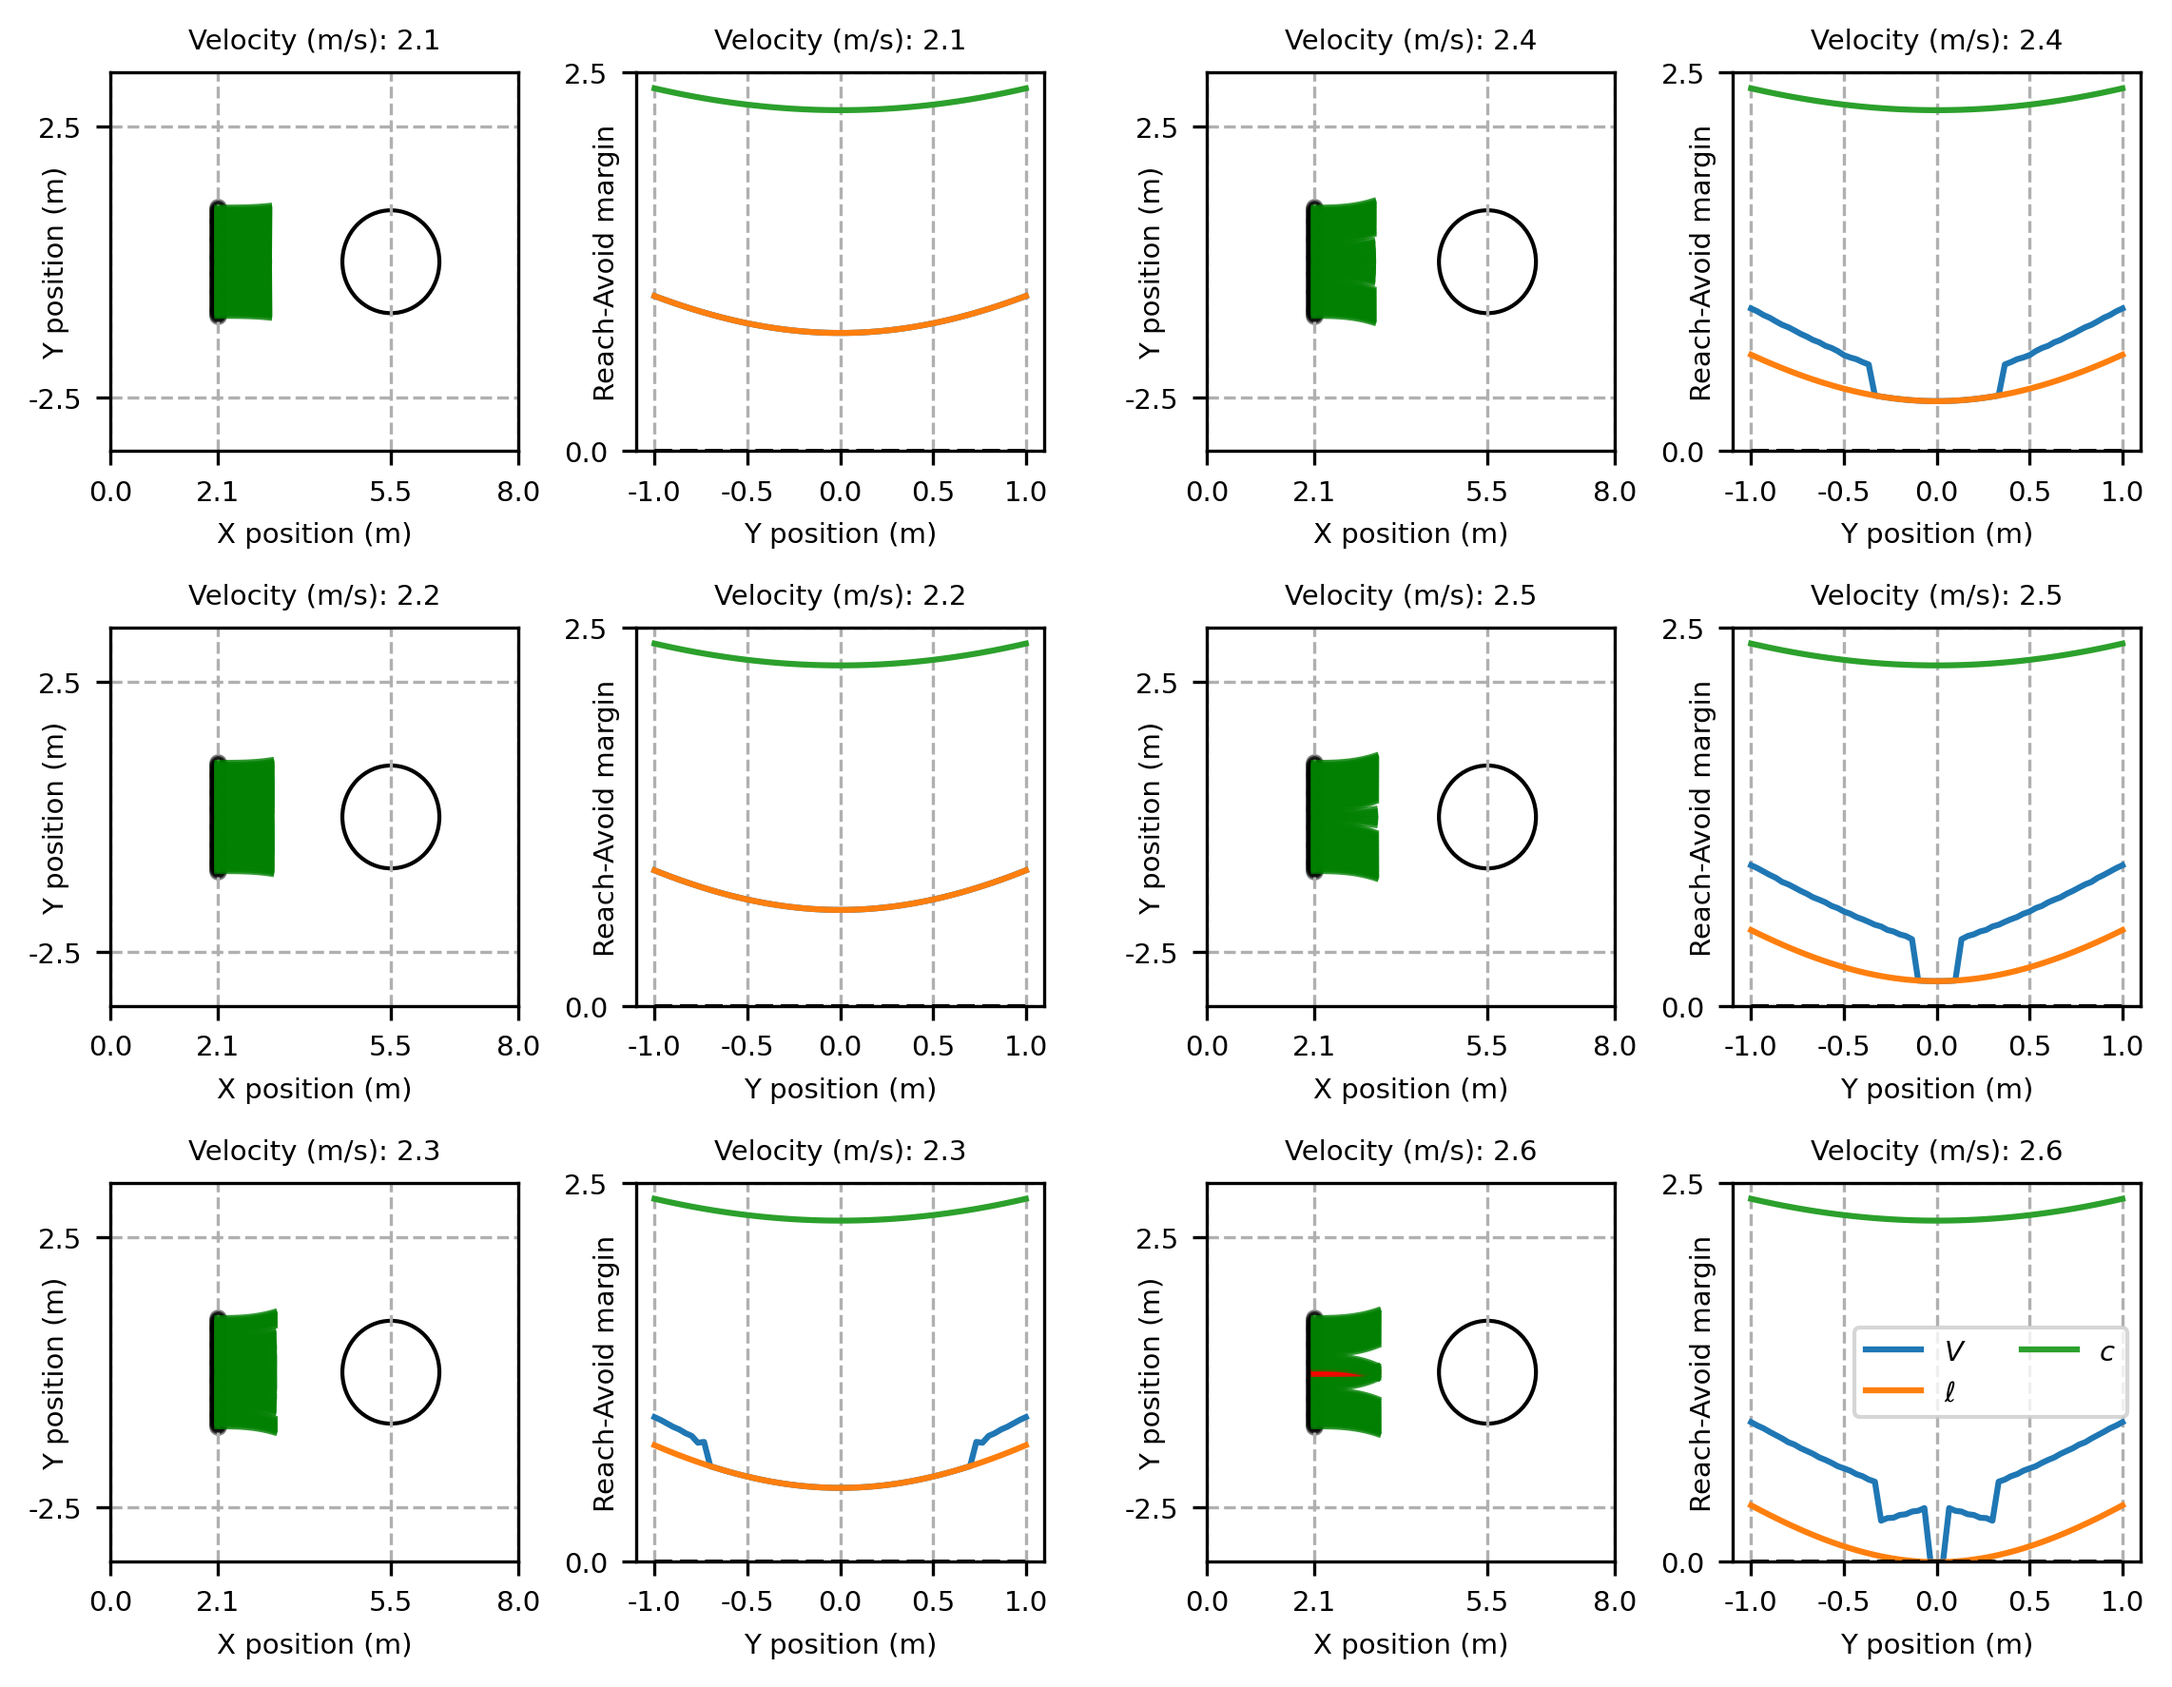
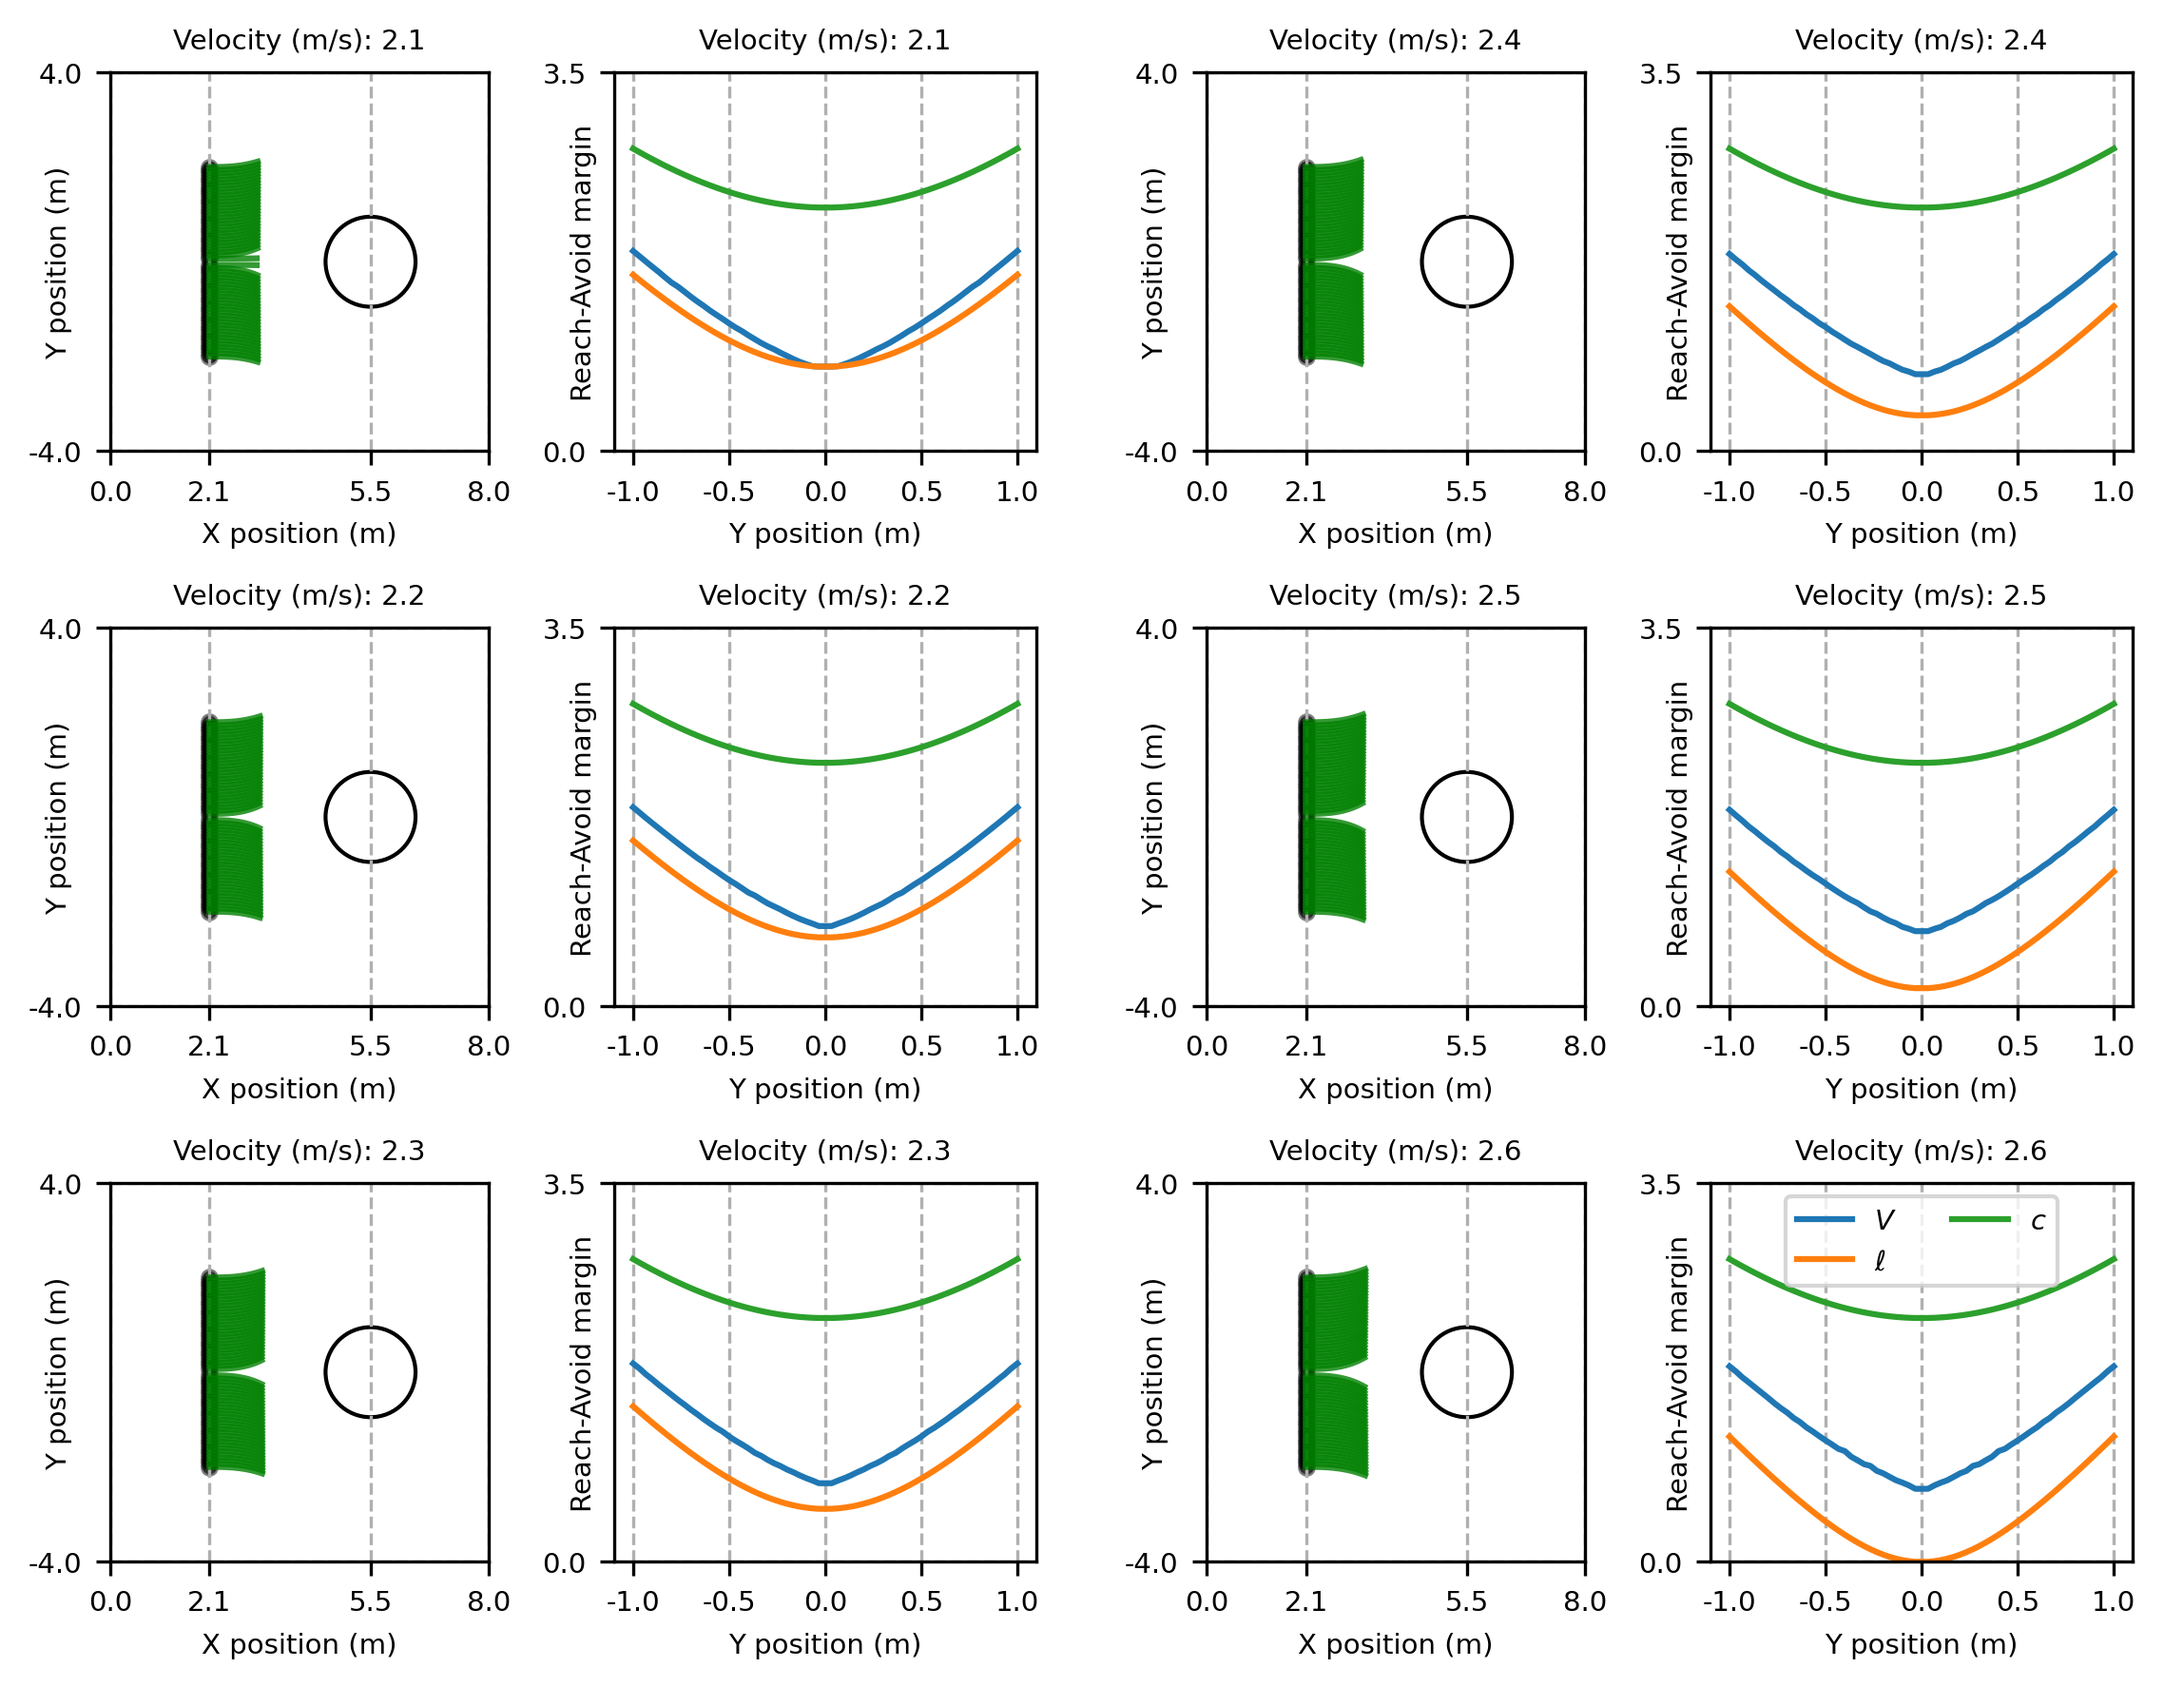
bootstrap controls to fix

diff --git a/run_ilqr_solvers.py b/run_ilqr_solvers.py
@@ -18,6 +18,41 @@ os.environ["CUDA_VISIBLE_DEVICES"] = " "
 
 jax.config.update('jax_platform_name', 'cpu')
 
+dim_0_samples = 30
+dim_1_samples = 30
+
+def plot_action_from_agent(ax, ax_v, config_env, x_cur, env, range_vals, runtimes):
+    boot_controls = None
+    marginopts = []
+    target_margs = []
+    failure_margs = []
+
+    for x1_idx in range_vals:
+        x0_frac = 0.0
+        x1_frac = x1_idx/float(dim_1_samples)
+        delta = np.array([x0_frac*config_env.TRACK_LEN, x1_frac*2.0])
+        x_upd = np.array(x_cur)
+        x_upd[0] += delta[0]
+        x_upd[1] += delta[1]
+        start_time = time.time()
+        _, solver_info = env.agent.get_action(obs=x_upd, state=x_upd, controls=boot_controls)
+        end_time = time.time() - start_time
+
+        runtimes.append(end_time)
+        boot_controls = solver_info['controls']
+        marginopts.append(solver_info['marginopt'])
+        target_margs.append(solver_info['curr_target_margin'])
+        failure_margs.append(solver_info['curr_failure_margin'])
+        if solver_info['marginopt'] > 0:
+            ax.plot(solver_info['states'][0], solver_info['states'][1], color='g', alpha=0.8)
+            ax.scatter(solver_info['states'][0, 0], solver_info['states'][1, 0], color='k', s=12, alpha=0.5)
+        else:
+            ax.plot(solver_info['states'][0], solver_info['states'][1], color='r', alpha=0.8)
+            ax.scatter(solver_info['states'][0, 0], solver_info['states'][1, 0], color='k', s=12, alpha=0.5)
+
+    xvals = range_vals/float(dim_1_samples)
+
+    return xvals, marginopts, target_margs, failure_margs
 
 def main(config_file, road_boundary, filter_type):
     ## ------------------------------------- Warmup fields ------------------------------------------ ##
@@ -91,63 +126,43 @@ def main(config_file, road_boundary, filter_type):
         ax = axes[0]
         ax_v = axes[1]
         ax.axis(env.visual_extent)
-        #ax.set_aspect('equal')
+        ax.set_aspect('equal')
         env.render_obs(ax=ax, c='k')
 
         runtimes = []
+        range_vals = np.arange(-dim_1_samples, 0)
+        xvals_1, marginopts_1, target_margs_1, failure_margs_1 = plot_action_from_agent(ax, ax_v, config_env, x_cur, env, range_vals, runtimes)
+        range_vals = np.arange(dim_1_samples, 0, -1)
+        xvals_2, marginopts_2, target_margs_2, failure_margs_2 = plot_action_from_agent(ax, ax_v, config_env, x_cur, env, range_vals, runtimes)
 
-        dim_0_samples = 30
-        dim_1_samples = 30
+        xvals = np.concatenate((xvals_1, np.flip(xvals_2, axis=-1)), axis=-1)
+        marginopts = np.concatenate((marginopts_1, np.flip(marginopts_2, axis=-1)), axis=-1)
+        target_margs = np.concatenate((target_margs_1, np.flip(target_margs_2, axis=-1)), axis=-1)
+        failure_margs = np.concatenate((failure_margs_1, np.flip(failure_margs_2, axis=-1)), axis=-1)
 
-        boot_controls = None
-        marginopts = []
-        target_margs = []
-        failure_margs = []
-        for x1_idx in np.arange(-dim_1_samples, dim_1_samples + 1):
-            x0_frac = 0.0
-            x1_frac = x1_idx/float(dim_1_samples)
-            delta = np.array([x0_frac*config_env.TRACK_LEN, x1_frac*1.0])
-            x_upd = np.array(x_cur)
-            x_upd[0] += delta[0]
-            x_upd[1] += delta[1]
-            start_time = time.time()
-            _, solver_info = env.agent.get_action(obs=x_upd, state=x_upd, controls=boot_controls)
-            end_time = time.time() - start_time
-
-            runtimes.append(end_time)
-            #boot_controls = solver_info['controls']
-            marginopts.append(solver_info['marginopt'])
-            target_margs.append(solver_info['curr_target_margin'])
-            failure_margs.append(solver_info['curr_failure_margin'])
-            if solver_info['marginopt'] > 0:
-                ax.plot(solver_info['states'][0], solver_info['states'][1], color='g', alpha=0.8)
-                ax.scatter(solver_info['states'][0, 0], solver_info['states'][1, 0], color='k', s=12, alpha=0.5)
-            else:
-                ax.plot(solver_info['states'][0], solver_info['states'][1], color='r', alpha=0.8)
-                ax.scatter(solver_info['states'][0, 0], solver_info['states'][1, 0], color='k', s=12, alpha=0.5)
-
-        xvals = np.arange(-dim_1_samples, dim_1_samples + 1)/float(dim_1_samples)
         ax_v.plot(xvals, marginopts, label='$V$')
         ax_v.plot(xvals, target_margs, label='$\ell$')
         ax_v.plot(xvals, failure_margs, label='$c$')
+
         if velindx==5:
             ax_v.legend(fontsize=legend_fontsize, ncol=2)
-        ax_v.plot(xvals, np.zeros_like(xvals), 'k--', linewidth=1.2)
+        #ax_v.plot(xvals, np.zeros_like(xvals), 'k--', linewidth=1.2)
         ax.set_title(f'Velocity (m/s): {vels}', fontsize=legend_fontsize)
         ax_v.set_title(f'Velocity (m/s): {vels}', fontsize=legend_fontsize)
         ax.set_xlabel('X position (m)', fontsize=legend_fontsize)
         ax.set_ylabel('Y position (m)', fontsize=legend_fontsize)
         ax.set_xticks(ticks=[0.0, 2.1, 5.5, 8.0], labels=[0.0, 2.1, 5.5, 8.0], fontsize=legend_fontsize)
-        ax.set_yticks(ticks=[-2.5, 2.5], 
-                            labels=[-2.5, 2.5], 
+        ax.set_yticks(ticks=[-4.0, 4.0], 
+                            labels=[-4.0, 4.0], 
                             fontsize=legend_fontsize)
+        ax.set_ylim([-4.0, 4.0])
         ax.yaxis.set_label_coords(-0.1, 0.5)
         ax.grid(linestyle='--')
         ax_v.set_xticks(ticks=[-1.0, -0.5, 0.0, 0.5, 1.0], labels=[-1.0, -0.5, 0.0, 0.5, 1.0], fontsize=legend_fontsize)
-        ax_v.set_yticks(ticks=[0.0, 2.5], 
-                            labels=[0.0, 2.5], 
+        ax_v.set_yticks(ticks=[0.0, 3.5], 
+                            labels=[0.0, 3.5], 
                             fontsize=legend_fontsize)
-        ax_v.set_ylim([0.0, 2.5])
+        ax_v.set_ylim([0.0, 3.5])
         ax_v.yaxis.set_label_coords(-0.04, 0.5)
         #ax.xaxis.set_label_coords(0.5, -0.04)
         ax_v.set_xlabel('Y position (m)', fontsize=legend_fontsize)
